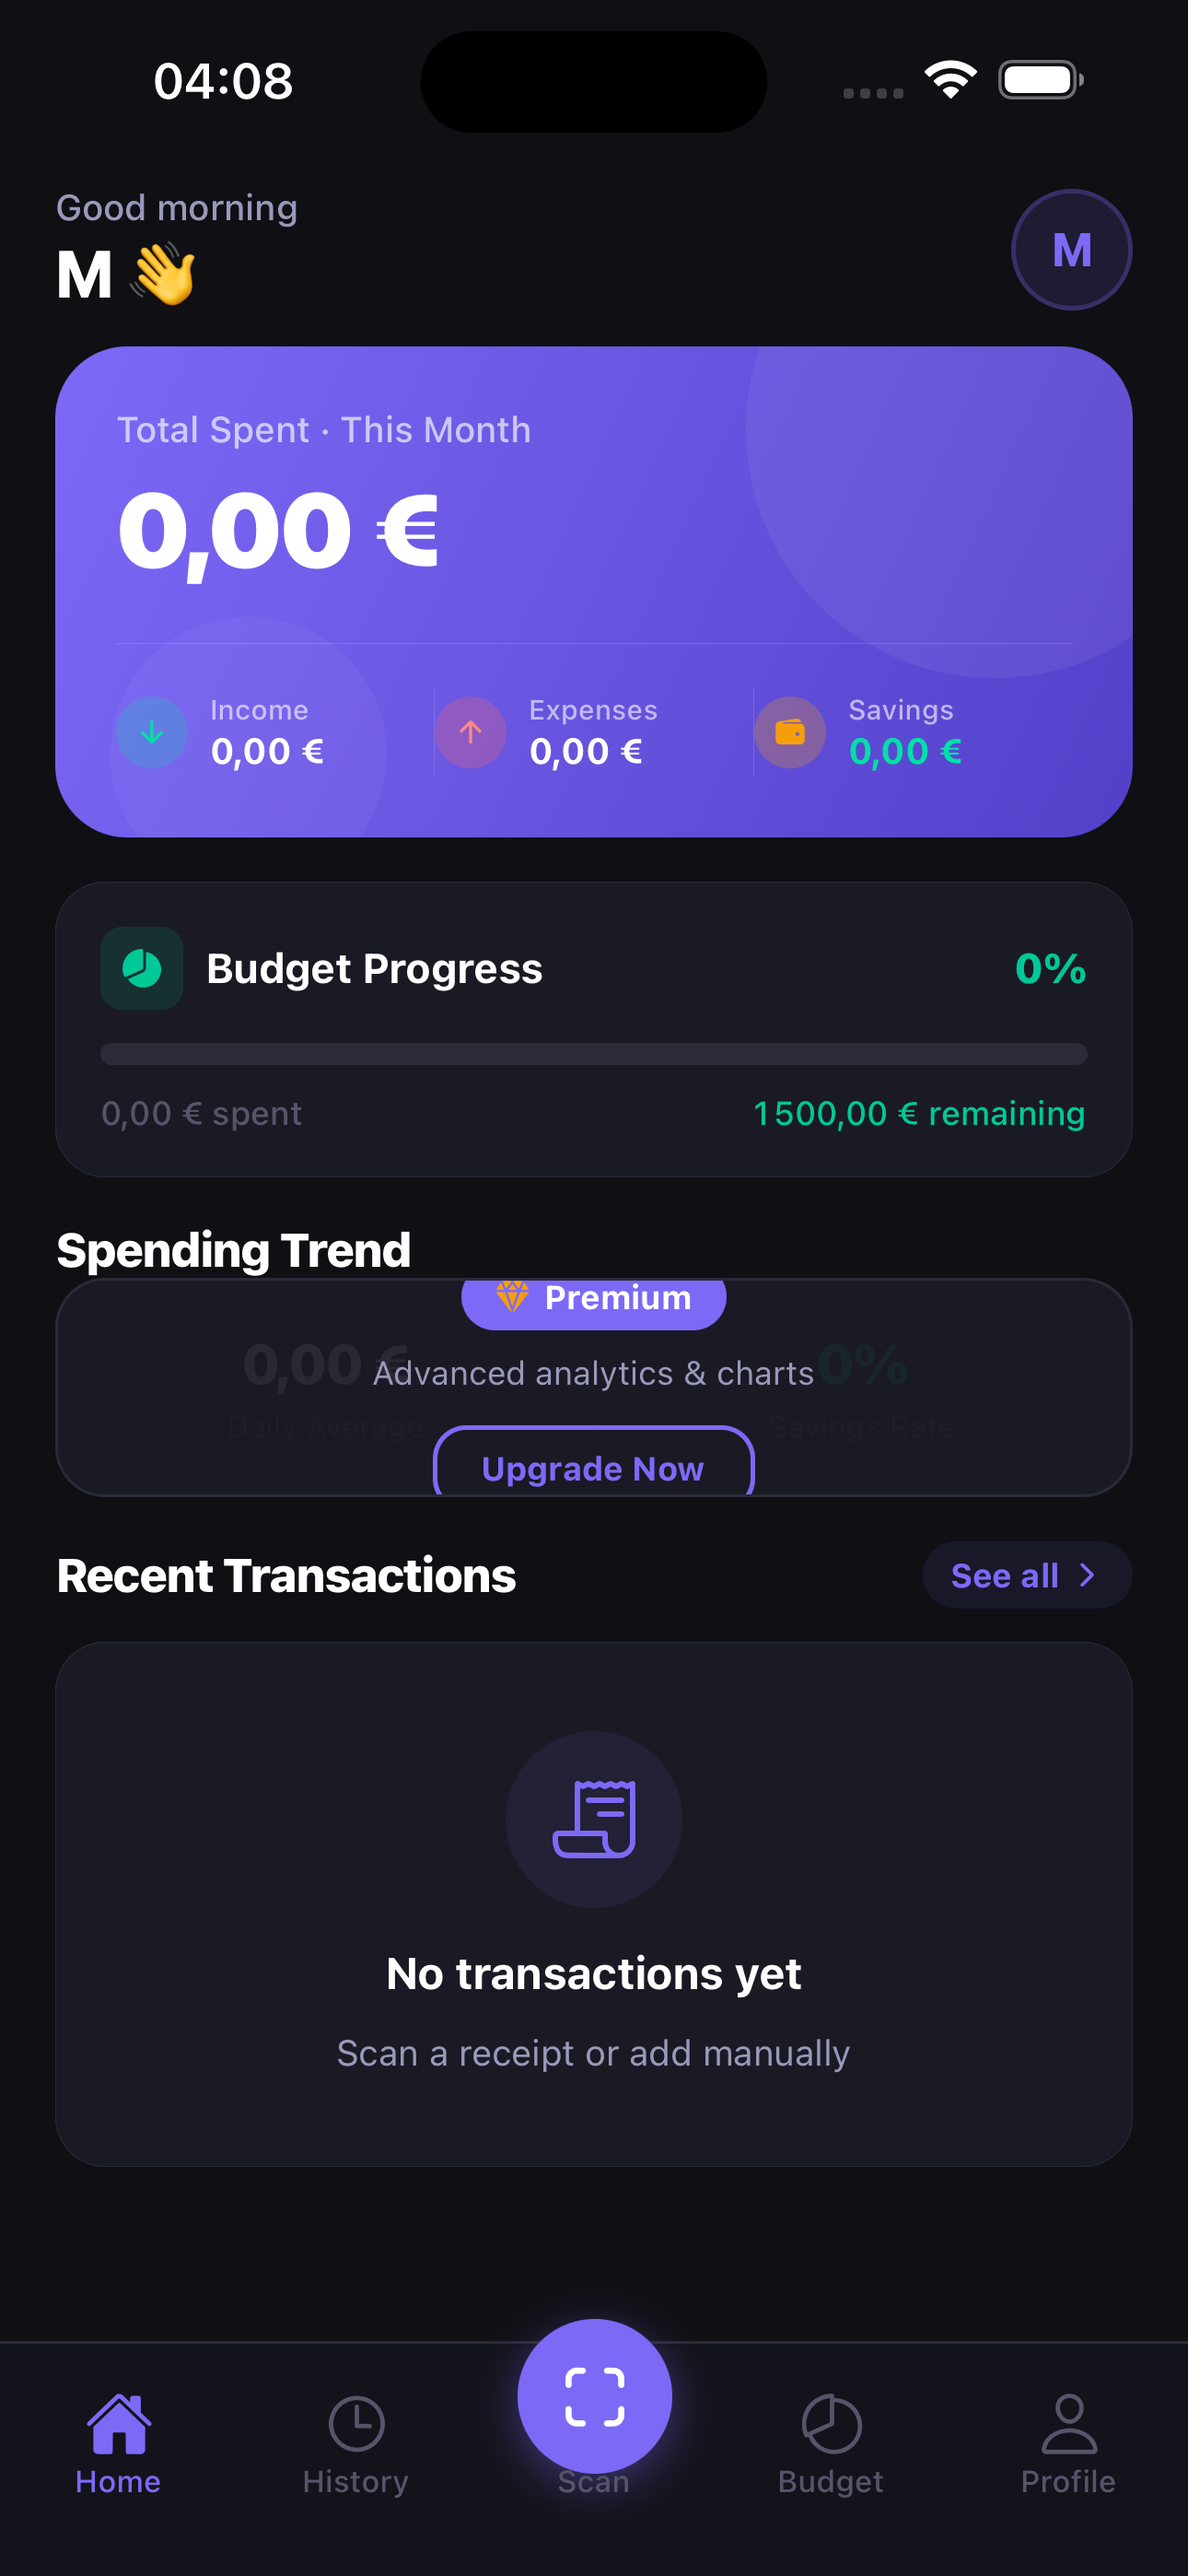
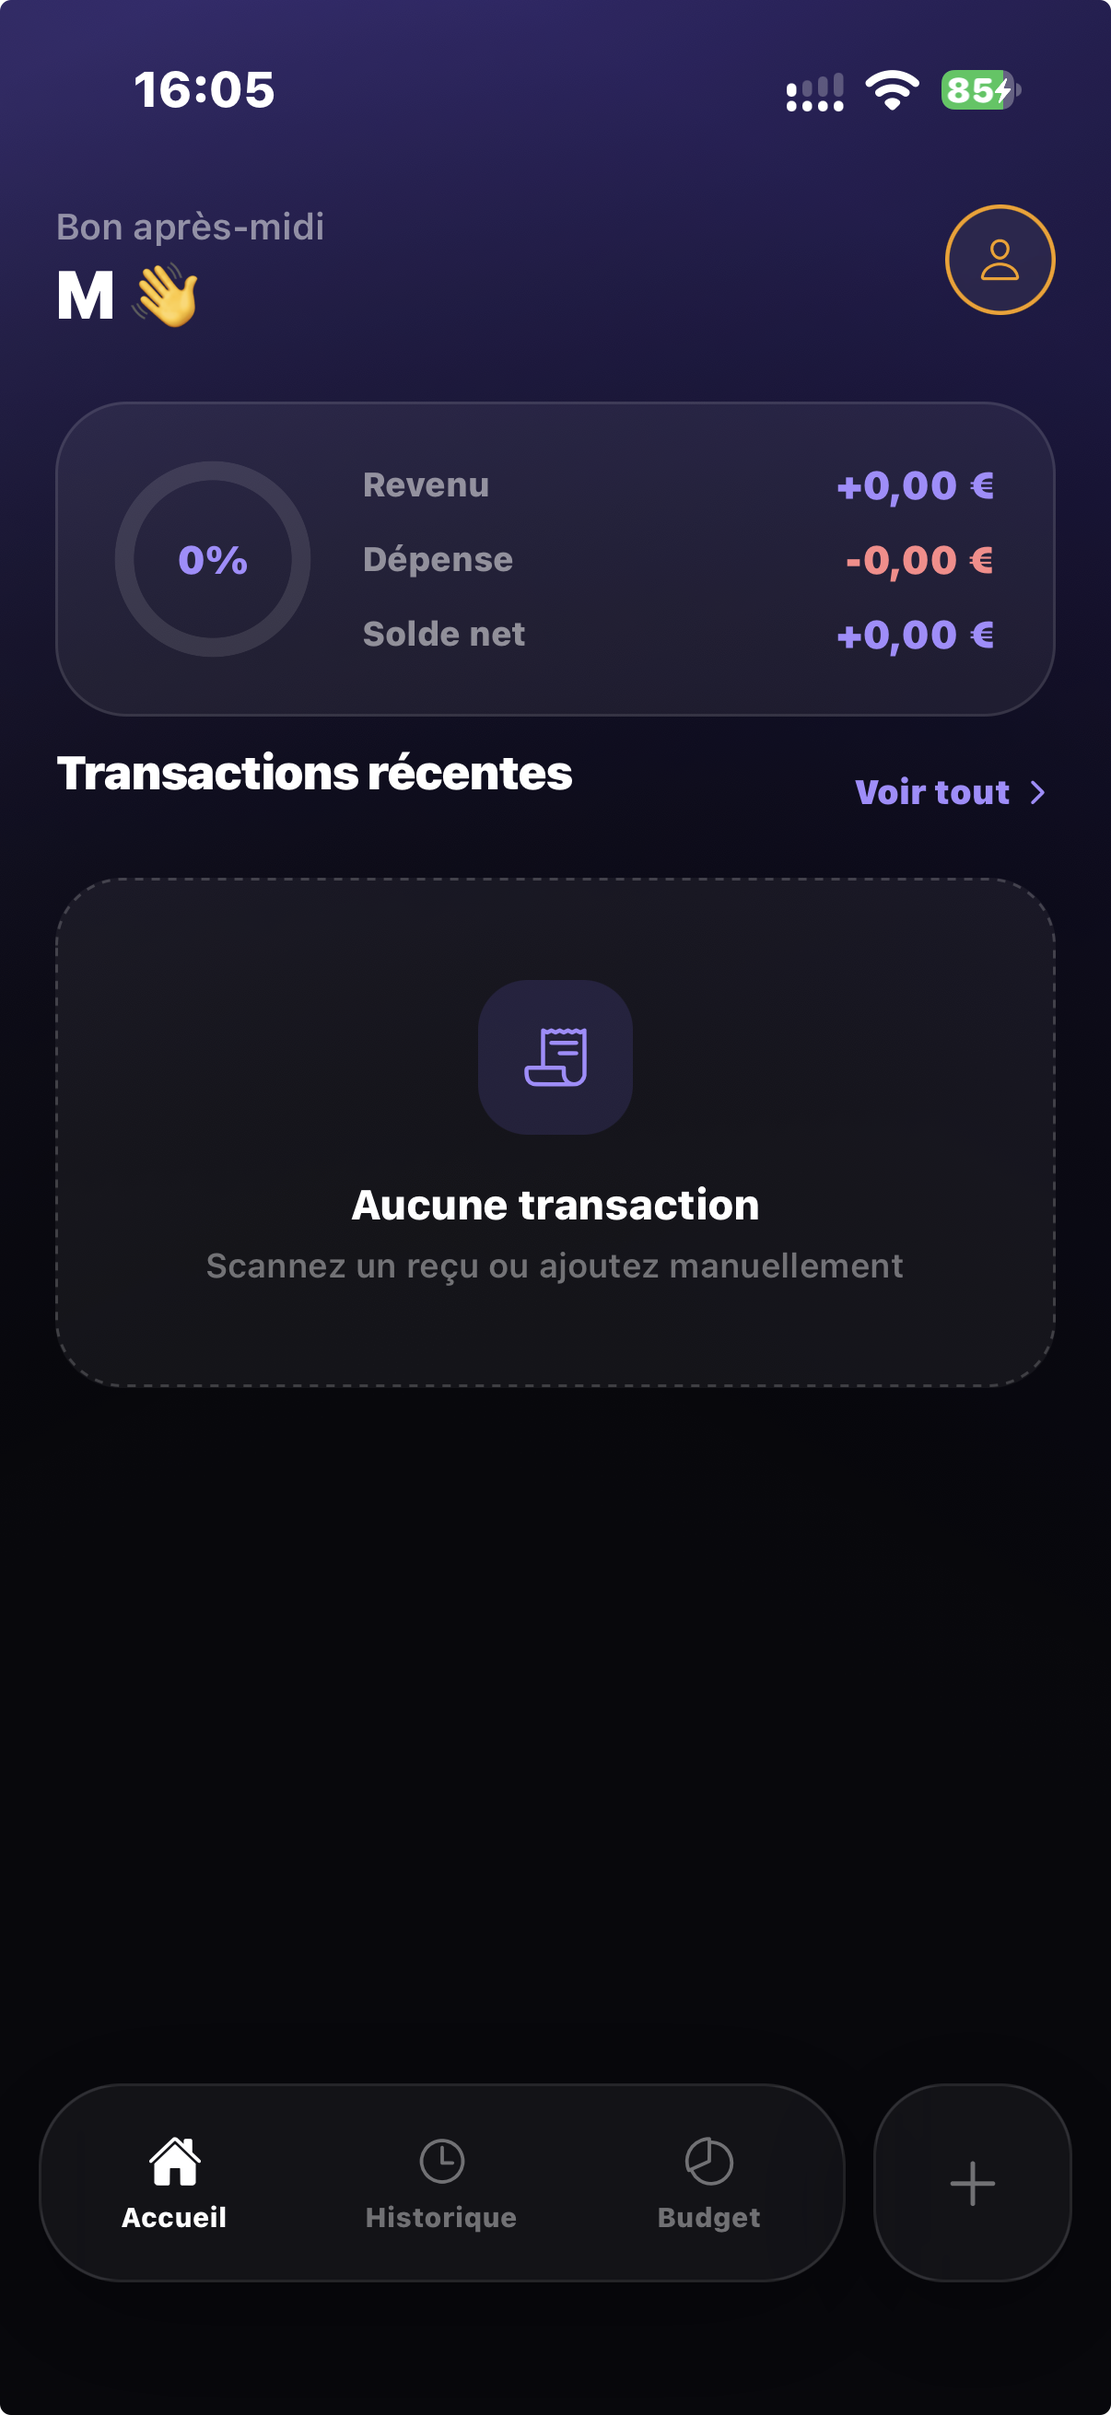
Portfolio: update store links and screenshots
Zikr is now live on both App Store and Google Play; Kinto is live on
the App Store only. Drop the tech-stack tags (Flutter, Swift, etc.)
from project cards and refresh both app screenshots.

diff --git a/index.html b/index.html
@@ -56,11 +56,9 @@
                         <img class="project-icon" src="assets/images/zikr-icon.png" alt="Icône Zikr">
                         <h3 class="project-name">Zikr</h3>
                         <p class="project-tagline" data-i18n="app_zikr_tagline">Votre compagnon spirituel quotidien : Coran, Adhkar et horaires de prière.</p>
-                        <div class="project-tags">
-                            <span>Flutter</span><span>Supabase</span>
-                        </div>
                         <div class="project-links">
                             <a href="https://apps.apple.com/fr/app/zikr/id6759991511" target="_blank" rel="noopener" data-i18n="link_appstore">App Store</a>
+                            <a href="https://play.google.com/store/apps/details?id=com.mohamed.zikr" target="_blank" rel="noopener" data-i18n="link_googleplay">Google Play</a>
                             <a href="zikr-privacy.html" data-i18n="link_privacy">Confidentialité</a>
                             <a href="zikr-terms.html" data-i18n="link_terms">Conditions</a>
                         </div>
@@ -76,11 +74,8 @@
                         <img class="project-icon" src="assets/images/kinto-icon.png" alt="Icône Kinto">
                         <h3 class="project-name">Kinto</h3>
                         <p class="project-tagline" data-i18n="app_kinto_tagline">Gestion de budget avec scanner de reçus et suivi des dépenses.</p>
-                        <div class="project-tags">
-                            <span>Swift</span><span>CoreData</span>
-                        </div>
                         <div class="project-links">
-                            <span class="link-soon" data-i18n="status_new">Bientôt disponible</span>
+                            <a href="https://apps.apple.com/fr/app/kinto/id6761582723" target="_blank" rel="noopener" data-i18n="link_appstore">App Store</a>
                             <a href="kinto-privacy.html" data-i18n="link_privacy">Confidentialité</a>
                             <a href="kinto-terms.html" data-i18n="link_terms">Conditions</a>
                         </div>

diff --git a/script.js b/script.js
@@ -9,8 +9,8 @@ const translations = {
         portfolio_title: 'Projets',
         app_zikr_tagline: 'Votre compagnon spirituel quotidien : Coran, Adhkar et horaires de prière.',
         app_kinto_tagline: 'Gestion de budget avec scanner de reçus et suivi des dépenses.',
-        status_new: 'Bientôt disponible',
         link_appstore: 'App Store',
+        link_googleplay: 'Google Play',
         link_privacy: 'Confidentialité',
         link_terms: 'Conditions',
         about_p1: 'Je suis Mohamed Sayed, développeur indépendant. Je conçois et développe des applications mobiles de bout en bout, du design à la mise en ligne.',
@@ -26,8 +26,8 @@ const translations = {
         portfolio_title: 'Projects',
         app_zikr_tagline: 'Your daily spiritual companion: Quran, Adhkar and prayer times.',
         app_kinto_tagline: 'Budget management with receipt scanning and expense tracking.',
-        status_new: 'Coming soon',
         link_appstore: 'App Store',
+        link_googleplay: 'Google Play',
         link_privacy: 'Privacy',
         link_terms: 'Terms',
         about_p1: 'I\'m Mohamed Sayed, an independent developer. I design and build mobile apps end to end, from design to launch.',
@@ -43,8 +43,8 @@ const translations = {
         portfolio_title: 'المشاريع',
         app_zikr_tagline: 'رفيقك الروحي اليومي: القرآن، الأذكار وأوقات الصلاة.',
         app_kinto_tagline: 'إدارة الميزانية مع مسح الفواتير وتتبع المصاريف.',
-        status_new: 'قريباً',
         link_appstore: 'App Store',
+        link_googleplay: 'Google Play',
         link_privacy: 'سياسة الخصوصية',
         link_terms: 'الشروط',
         about_p1: 'أنا محمد سيد، مطور مستقل. أصمم وأطور تطبيقات الموبايل من الألف إلى الياء.',

diff --git a/style.css b/style.css
@@ -266,21 +266,6 @@ section:last-of-type {
   margin-bottom: 1rem;
 }
 
-.project-tags {
-  display: flex;
-  gap: 0.5rem;
-  margin-bottom: 1.25rem;
-}
-
-.project-tags span {
-  font-size: 0.72rem;
-  font-weight: 600;
-  color: var(--text-muted);
-  border: 1px solid var(--border);
-  padding: 0.2rem 0.55rem;
-  border-radius: 5px;
-}
-
 .project-links {
   display: flex;
   gap: 1.1rem;
@@ -298,11 +283,6 @@ section:last-of-type {
 .project-links a:hover {
   color: var(--accent);
   border-color: var(--accent);
-}
-
-.link-soon {
-  color: var(--text-muted);
-  font-weight: 600;
 }
 
 /* About */
